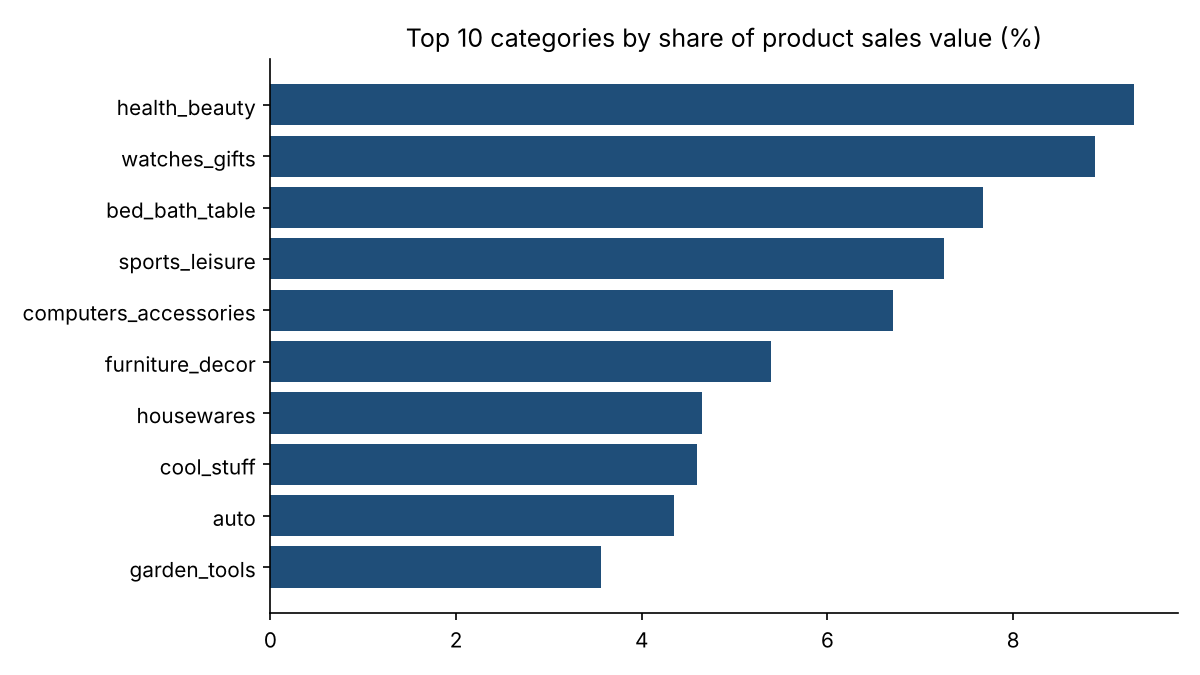
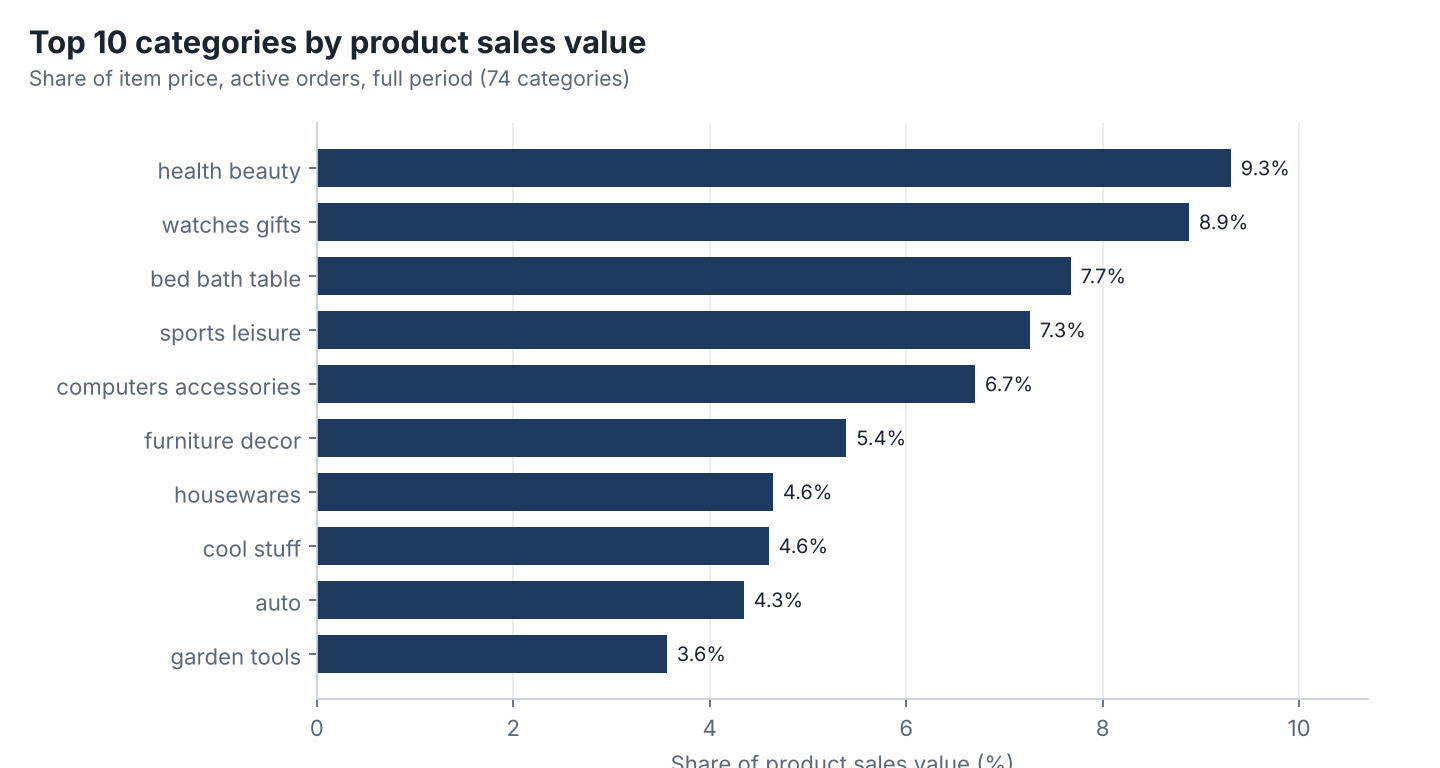
Restyle charts, add overview image, redesign README
- New src/analysis/charts.py: consistent style, direct labels, annotated peak, average line
- reports/charts/dashboard_overview.png (static Matplotlib summary, not Power BI)
- README: centered header, badges, hero image, results table, 2x3 chart grid, docs links

Claude-Session: https://claude.ai/code/session_014fBJ9he66Z22D9tL84DU2s

diff --git a/src/analysis/charts.py b/src/analysis/charts.py
@@ -1,0 +1,172 @@
+"""Chart rendering for the README and reports. One visual style, labelled directly.
+
+All charts are drawn from the query result DataFrames (no hard-coded numbers).
+"""
+from pathlib import Path
+
+NAVY, ORANGE, RED, GREY, GREEN, LIGHT = "#1f3a5f", "#e07b39", "#c0392b", "#8a94a6", "#2e8b6a", "#e8ecf2"
+INK, MUTED = "#1c2430", "#5b6677"
+
+
+def _style():
+    import matplotlib as mpl
+    mpl.use("Agg")
+    mpl.rcParams.update({
+        "font.family": ["Inter", "DejaVu Sans"], "font.size": 10, "text.color": INK,
+        "axes.edgecolor": "#c9d0db", "axes.labelcolor": MUTED, "xtick.color": MUTED, "ytick.color": MUTED,
+        "axes.spines.top": False, "axes.spines.right": False, "axes.grid": True, "grid.color": LIGHT,
+        "grid.linewidth": 0.8, "axes.axisbelow": True, "figure.facecolor": "white", "axes.facecolor": "white",
+    })
+
+
+def _title(fig, title, subtitle=None):
+    fig.text(0.02, 0.97, title, fontsize=14, fontweight="bold", va="top", ha="left", color=INK)
+    if subtitle:
+        fig.text(0.02, 0.915, subtitle, fontsize=9.5, va="top", ha="left", color=MUTED)
+
+
+def _save(fig, path):
+    fig.savefig(path, dpi=160, facecolor="white")
+    import matplotlib.pyplot as plt
+    plt.close(fig)
+
+
+def _monthly(m):
+    full = m[m["orders"] >= 500]          # edge months hold a handful of orders and would draw a false collapse
+    return full if len(full) else m
+
+
+def _monthly_panel(ax, m):
+    m = _monthly(m)
+    x = m["purchase_month"].astype(str).str[:7]
+    ax.fill_between(range(len(m)), m["orders"], color=NAVY, alpha=0.12)
+    ax.plot(range(len(m)), m["orders"], color=NAVY, lw=2.2, marker="o", ms=3.5)
+    step = max(len(m) // 8, 1)
+    ax.set_xticks(range(0, len(m), step)); ax.set_xticklabels(x.iloc[::step], rotation=0, fontsize=8)
+    ax.set_ylim(0, m["orders"].max() * 1.18)
+    peak = m["orders"].idxmax(); pi = list(m.index).index(peak)
+    ax.annotate(f"peak {int(m.loc[peak, 'orders']):,}\n{x.loc[peak]}", (pi, m.loc[peak, "orders"]), (pi - 2.2, m["orders"].max() * 1.02),
+                fontsize=8.5, color=INK, arrowprops=dict(arrowstyle="-", color=GREY), ha="center")
+    ax.set_ylabel("Orders per month")
+
+
+def _late_panel(ax, s, overall):
+    s = s.sort_values("late_rate")
+    colors = [RED if v > overall else NAVY for v in s["late_rate"]]
+    ax.barh(s["customer_state"], s["late_rate"] * 100, color=colors, height=0.72)
+    ax.axvline(overall * 100, color=INK, lw=1, ls="--")
+    ax.text(overall * 100 + 0.3, 0.2, f"all-state average {overall:.1%}", fontsize=8.5, color=INK, va="bottom")
+    ax.set_xlabel("Late-delivery rate (%)"); ax.grid(axis="y", visible=False)
+    ax.tick_params(axis="y", labelsize=8)
+
+
+def make_all(results: dict, out: Path) -> None:
+    _style()
+    import matplotlib.pyplot as plt
+    out.mkdir(parents=True, exist_ok=True)
+
+    # ---- 1 monthly orders
+    m = results["q01_monthly_trend"]
+    fig, ax = plt.subplots(figsize=(9, 4.2)); fig.subplots_adjust(top=0.80, bottom=0.12, left=0.08, right=0.97)
+    _monthly_panel(ax, m)
+    _title(fig, "Monthly orders", "Active orders (excl. canceled/unavailable); months with at least 500 orders")
+    _save(fig, out / "monthly_orders.png")
+
+    # ---- 2 category share
+    c = results["q02_category_contribution"].head(10).iloc[::-1]
+    fig, ax = plt.subplots(figsize=(9, 4.8)); fig.subplots_adjust(top=0.84, bottom=0.09, left=0.22, right=0.95)
+    ax.barh(c["category"].str.replace("_", " "), c["value_share"] * 100, color=NAVY, height=0.7)
+    for y, v in enumerate(c["value_share"] * 100):
+        ax.text(v + 0.1, y, f"{v:.1f}%", va="center", fontsize=9, color=INK)
+    ax.set_xlim(0, c["value_share"].max() * 100 * 1.15); ax.grid(axis="y", visible=False)
+    ax.set_xlabel("Share of product sales value (%)")
+    _title(fig, "Top 10 categories by product sales value", "Share of item price, active orders, full period (74 categories)")
+    _save(fig, out / "category_share.png")
+
+    # ---- 3 late rate by state
+    s = results["q04_delivery_performance"]
+    elig = s["eligible_orders"].sum()
+    overall = (s["late_rate"] * s["eligible_orders"]).sum() / elig if elig else 0.0
+    fig, ax = plt.subplots(figsize=(9, 6.6)); fig.subplots_adjust(top=0.88, bottom=0.08, left=0.07, right=0.97)
+    _late_panel(ax, s, overall)
+    _title(fig, "Late-delivery rate by customer state", "Delivered after the estimated date; states with at least 30 eligible orders. Red = above average")
+    _save(fig, out / "late_rate_by_state.png")
+
+    # ---- 4 review by delivery outcome
+    r = results["q05_reviews_vs_delay"].set_index("delivery_outcome")
+    fig, axes = plt.subplots(1, 2, figsize=(9, 4)); fig.subplots_adjust(top=0.78, bottom=0.12, left=0.07, right=0.97, wspace=0.3)
+    labels = [k.replace("_", " ") for k in r.index]; cols = [RED if k == "late" else NAVY for k in r.index]
+    for ax, col, ttl, fmt, lim in [(axes[0], "avg_review_score", "Average review score (1-5)", "{:.2f}", 5),
+                                    (axes[1], "low_score_rate", "Share scoring 1-2", "{:.1%}", 1)]:
+        ax.bar(labels, r[col], color=cols, width=0.55)
+        for i, v in enumerate(r[col]):
+            ax.text(i, v + lim * 0.02, fmt.format(v), ha="center", fontsize=11, fontweight="bold", color=INK)
+        if lim == 1:
+            from matplotlib.ticker import PercentFormatter
+            ax.yaxis.set_major_formatter(PercentFormatter(1.0, decimals=0))
+        ax.set_ylim(0, lim * 1.12); ax.set_title(ttl, fontsize=10, color=MUTED, loc="left"); ax.grid(axis="x", visible=False)
+    _title(fig, "Late deliveries have much lower review scores", "Association only (reviews are voluntary; late orders differ in other ways too)")
+    _save(fig, out / "review_by_delivery.png")
+
+    # ---- 5 order value bands
+    v = results["q09_order_value_distribution"]
+    fig, ax = plt.subplots(figsize=(9, 4.4)); fig.subplots_adjust(top=0.80, bottom=0.13, left=0.07, right=0.97)
+    x = range(len(v)); w = 0.38
+    b1 = ax.bar([i - w / 2 for i in x], v["order_share"] * 100, w, color=NAVY, label="Share of orders")
+    b2 = ax.bar([i + w / 2 for i in x], v["value_share"] * 100, w, color=ORANGE, label="Share of product sales value")
+    for bars in (b1, b2):
+        for b in bars:
+            ax.text(b.get_x() + b.get_width() / 2, b.get_height() + 0.6, f"{b.get_height():.0f}%", ha="center", fontsize=9)
+    ax.set_xticks(list(x)); ax.set_xticklabels(v["value_band"].str.split(": ").str[1]); ax.set_xlabel("Order value (product price)")
+    ax.set_ylabel("%"); ax.legend(frameon=False, loc="upper right"); ax.grid(axis="x", visible=False)
+    _title(fig, "Small orders are the volume; large orders are the value", "Active orders with at least one item")
+    _save(fig, out / "order_value_bands.png")
+
+    # ---- 6 payment mix
+    p = results["q12_payments_by_order_value_band"]
+    fig, ax = plt.subplots(figsize=(9, 4.6)); fig.subplots_adjust(top=0.80, bottom=0.2, left=0.07, right=0.97)
+    bottom = [0.0] * len(p)
+    for col, label, color in [("credit_card_share", "credit card", NAVY), ("boleto_share", "boleto", ORANGE),
+                              ("voucher_share", "voucher", GREY), ("debit_card_share", "debit card", GREEN)]:
+        vals = (p[col] * 100).tolist()
+        ax.bar(p["value_band"].str.split(": ").str[1], vals, bottom=bottom, label=label, color=color, width=0.62)
+        if col in ("credit_card_share", "boleto_share"):
+            for i, (b, val) in enumerate(zip(bottom, vals)):
+                ax.text(i, b + val / 2, f"{val:.0f}%", ha="center", va="center", color="white", fontsize=9, fontweight="bold")
+        bottom = [b + q for b, q in zip(bottom, vals)]
+    ax.set_ylim(0, 100); ax.set_ylabel("% of orders (main payment type)"); ax.set_xlabel("Order value (product price)")
+    ax.legend(frameon=False, ncol=4, loc="upper center", bbox_to_anchor=(0.5, -0.16)); ax.grid(axis="x", visible=False)
+    _title(fig, "Larger orders lean on credit card", "Main payment type per order-value band")
+    _save(fig, out / "payment_mix_by_band.png")
+
+    # ---- 7 overview "dashboard"
+    q1 = results["q01_monthly_trend"]; q6 = results["q06_repeat_customers"].iloc[0]
+    tot_orders = int(q1["orders"].sum()); tot_value = float(q1["product_sales_value"].sum())
+    late_n = float(r.loc["late", "orders_with_review"]) if "late" in r.index else 0
+    tiles = [("Active orders", f"{tot_orders:,}"), ("Product sales value", f"{tot_value/1e6:.1f}M"),
+             ("Late deliveries", f"{overall:.1%}"), ("Late-order avg review", f"{r.loc['late','avg_review_score']:.2f}" if "late" in r.index else "n/a"),
+             ("Repeat customers", f"{q6['repeat_rate']:.1%}")]
+    fig = plt.figure(figsize=(14, 9.2)); fig.patch.set_facecolor("#f4f6fa")
+    fig.text(0.03, 0.965, "Marketplace operations & customer experience", fontsize=19, fontweight="bold", va="top", color=INK)
+    fig.text(0.03, 0.925, "Olist Brazilian E-Commerce (public dataset), Sep 2016 - Oct 2018. Generated by the pipeline from real data; association only, not revenue or profit.",
+             fontsize=10, va="top", color=MUTED)
+    for i, (lab, val) in enumerate(tiles):
+        x0 = 0.03 + i * 0.1945
+        ax = fig.add_axes([x0, 0.80, 0.18, 0.095]); ax.set_xticks([]); ax.set_yticks([])
+        for sp in ax.spines.values(): sp.set_visible(False)
+        ax.set_facecolor("white"); ax.grid(False)
+        ax.text(0.06, 0.68, lab, fontsize=10, color=MUTED, transform=ax.transAxes)
+        ax.text(0.06, 0.18, val, fontsize=22, fontweight="bold", color=RED if "Late" in lab else NAVY, transform=ax.transAxes)
+    a1 = fig.add_axes([0.05, 0.50, 0.42, 0.24]); a1.set_facecolor("white"); _monthly_panel(a1, q1)
+    a1.set_title("Monthly orders", loc="left", fontsize=11, fontweight="bold")
+    a2 = fig.add_axes([0.58, 0.07, 0.38, 0.67]); a2.set_facecolor("white"); _late_panel(a2, s, overall)
+    a2.set_title("Late-delivery rate by state (%)", loc="left", fontsize=11, fontweight="bold")
+    a3 = fig.add_axes([0.05, 0.07, 0.19, 0.31]); a3.set_facecolor("white")
+    a3.bar(labels, r["avg_review_score"], color=cols, width=0.55)
+    for i, val in enumerate(r["avg_review_score"]): a3.text(i, val + 0.1, f"{val:.2f}", ha="center", fontweight="bold")
+    a3.set_ylim(0, 5.5); a3.set_title("Avg review score", loc="left", fontsize=11, fontweight="bold"); a3.grid(axis="x", visible=False)
+    a4 = fig.add_axes([0.30, 0.07, 0.19, 0.31]); a4.set_facecolor("white")
+    a4.bar(v["value_band"].str.split(": ").str[1], v["value_share"] * 100, color=ORANGE, width=0.6)
+    a4.set_title("Share of product sales value\nby order-value band (%)", loc="left", fontsize=11, fontweight="bold")
+    a4.tick_params(axis="x", labelsize=8, rotation=30); a4.grid(axis="x", visible=False)
+    _save(fig, out / "dashboard_overview.png")

diff --git a/src/analysis/run_analysis.py b/src/analysis/run_analysis.py
@@ -19,63 +19,5 @@ def run_queries(con, out_dir: Path) -> dict:
 
 
 def make_charts(results: dict, chart_dir: Path) -> None:
-    import matplotlib
-    matplotlib.use("Agg")
-    import matplotlib.pyplot as plt
-
-    chart_dir.mkdir(parents=True, exist_ok=True)
-    m = results["q01_monthly_trend"]
-    # Edge months of the dataset hold only a handful of orders (partial/ramp-up periods) and would
-    # draw a false collapse; chart only months with a meaningful volume.
-    full = m[m["orders"] >= 500]
-    m = full if len(full) else m
-    fig, ax = plt.subplots(figsize=(9, 4))
-    ax.plot(m["purchase_month"], m["orders"], color="#1f4e79", marker="o", markersize=3)
-    ax.set_title("Monthly orders (excl. canceled/unavailable; months with >= 500 orders)")
-    ax.set_ylabel("Orders"); ax.spines[["top", "right"]].set_visible(False)
-    fig.tight_layout(); fig.savefig(chart_dir / "monthly_orders.png", dpi=150); plt.close(fig)
-
-    c = results["q02_category_contribution"].head(10).iloc[::-1]
-    fig, ax = plt.subplots(figsize=(8, 4.5))
-    ax.barh(c["category"], c["value_share"] * 100, color="#1f4e79")
-    ax.set_title("Top 10 categories by share of product sales value (%)")
-    ax.spines[["top", "right"]].set_visible(False)
-    fig.tight_layout(); fig.savefig(chart_dir / "category_share.png", dpi=150); plt.close(fig)
-
-    s = results["q04_delivery_performance"].sort_values("late_rate")
-    fig, ax = plt.subplots(figsize=(8, 6))
-    ax.barh(s["customer_state"], s["late_rate"] * 100, color="#1f4e79")
-    ax.set_title("Late-delivery rate by customer state (%), states with >= 30 eligible orders")
-    ax.spines[["top", "right"]].set_visible(False)
-    fig.tight_layout(); fig.savefig(chart_dir / "late_rate_by_state.png", dpi=150); plt.close(fig)
-
-    r = results["q05_reviews_vs_delay"]
-    fig, ax = plt.subplots(figsize=(5, 4))
-    ax.bar(r["delivery_outcome"], r["avg_review_score"], color="#1f4e79")
-    ax.set_ylim(0, 5); ax.set_ylabel("Average review score")
-    ax.set_title("Review score by delivery outcome")
-    ax.spines[["top", "right"]].set_visible(False)
-    fig.tight_layout(); fig.savefig(chart_dir / "review_by_delivery.png", dpi=150); plt.close(fig)
-
-    v = results["q09_order_value_distribution"]
-    x = range(len(v))
-    fig, ax = plt.subplots(figsize=(8, 4))
-    ax.bar([i - 0.2 for i in x], v["order_share"] * 100, width=0.4, color="#1f4e79", label="Share of orders")
-    ax.bar([i + 0.2 for i in x], v["value_share"] * 100, width=0.4, color="#e07b39", label="Share of product sales value")
-    ax.set_xticks(list(x)); ax.set_xticklabels(v["value_band"]); ax.set_ylabel("%")
-    ax.set_title("Order-value bands: share of orders vs share of value")
-    ax.legend(frameon=False); ax.spines[["top", "right"]].set_visible(False)
-    fig.tight_layout(); fig.savefig(chart_dir / "order_value_bands.png", dpi=150); plt.close(fig)
-
-    p = results["q12_payments_by_order_value_band"]
-    fig, ax = plt.subplots(figsize=(8, 4))
-    bottom = [0.0] * len(p)
-    for col, label, color in [("credit_card_share", "credit card", "#1f4e79"), ("boleto_share", "boleto", "#e07b39"),
-                              ("voucher_share", "voucher", "#7f7f7f"), ("debit_card_share", "debit card", "#59a14f")]:
-        vals = (p[col] * 100).tolist()
-        ax.bar(p["value_band"], vals, bottom=bottom, label=label, color=color)
-        bottom = [b + v_ for b, v_ in zip(bottom, vals)]
-    ax.set_ylabel("% of orders (main payment type)")
-    ax.set_title("Main payment type by order-value band")
-    ax.legend(frameon=False, ncol=4, loc="upper center", bbox_to_anchor=(0.5, -0.12)); ax.spines[["top", "right"]].set_visible(False)
-    fig.tight_layout(); fig.savefig(chart_dir / "payment_mix_by_band.png", dpi=150); plt.close(fig)
+    from src.analysis.charts import make_all
+    make_all(results, chart_dir)

diff --git a/README.md b/README.md
@@ -1,9 +1,45 @@
-# Marketplace Operations & Customer Experience Intelligence
+<h1 align="center">Marketplace Operations &amp; Customer Experience Analytics</h1>
+<p align="center"><em>An end-to-end analytics case study on ~100k real e-commerce orders: SQL (DuckDB) + Python pipeline, data-quality gates, 13 business queries, findings and recommendations.</em></p>
 
-*An end-to-end data analytics case study: from a (simulated) business request to a tested SQL/Python pipeline.*
+<p align="center">
+  <img alt="Python" src="https://img.shields.io/badge/python-3.12%2B-1f3a5f">
+  <img alt="DuckDB" src="https://img.shields.io/badge/SQL-DuckDB-e07b39">
+  <img alt="Tests" src="https://img.shields.io/badge/tests-19%20passing-2e8b6a">
+  <img alt="Data quality" src="https://img.shields.io/badge/quality%20checks-13%2F13%20pass-2e8b6a">
+</p>
 
-## Project status — read first
+<p align="center"><img src="reports/charts/dashboard_overview.png" alt="Overview of key results from the real Olist data" width="100%"></p>
+<p align="center"><sub>Overview image generated by the pipeline from the real data (<code>python -m src.pipeline</code>). It is a static Matplotlib summary, <b>not</b> a Power BI dashboard.</sub></p>
 
+**Jump to:** [Results](#key-results) · [Status](#project-status) · [Workflow](#workflow) · [Run it](#run-it) · [Docs](#documentation)
+
+## Key results
+Descriptive associations from the real data, not causal claims; "product sales value" is item price, not revenue or profit. Full detail, denominators and caveats: [`docs/findings_and_recommendations.md`](docs/findings_and_recommendations.md).
+
+| | Finding | Source |
+|---|---|---|
+| Growth | Jan-Aug 2018 vs Jan-Aug 2017: orders **+137%** (22,562 → 53,531); flat within 2018 | `q01` |
+| Delivery | **8.1%** of 96,470 eligible orders late; **AL 23.9%** vs **SP 5.9%** | `q04` |
+| Reviews vs delay | Late orders average **2.57**, on-time **4.29** (association only) | `q05` |
+| Repeat customers | **3.0%** of 94,990 customers ordered more than once in the window | `q06` |
+| Order value | Orders ≥ 200 are **15%** of orders but **50%** of product sales value | `q09` |
+
+<table>
+<tr>
+<td width="50%"><img src="reports/charts/monthly_orders.png" alt="Monthly orders"></td>
+<td width="50%"><img src="reports/charts/review_by_delivery.png" alt="Review score by delivery outcome"></td>
+</tr>
+<tr>
+<td width="50%"><img src="reports/charts/late_rate_by_state.png" alt="Late-delivery rate by state"></td>
+<td width="50%"><img src="reports/charts/category_share.png" alt="Top categories by product sales value"></td>
+</tr>
+<tr>
+<td width="50%"><img src="reports/charts/order_value_bands.png" alt="Order-value bands"></td>
+<td width="50%"><img src="reports/charts/payment_mix_by_band.png" alt="Payment mix by order-value band"></td>
+</tr>
+</table>
+
+## Project status
 | Component | Status |
 |---|---|
 | SQL models, KPI definitions, quality checks, Python pipeline | Built; 19 tests pass on a **synthetic fixture** (`tests/fixtures`) |
@@ -52,26 +88,13 @@ make pipeline    # needs real CSVs in data/raw/
 ```
 Outputs: `reports/q*.csv`, `reports/data_quality_results.csv`, `reports/charts/`, `data/processed/*.csv` (for Power BI). If data is missing, the pipeline exits with a clear error naming the missing files.
 
+## Documentation
+[Business request](docs/business_request.md) · [Charter](docs/project_charter.md) · [Data quality report](docs/data_quality_report.md) · [Findings](docs/findings_and_recommendations.md) · [KPI dictionary](docs/kpi_dictionary.md) · [Data model](docs/data_model.md) · [Methodology](docs/methodology.md) · [Traceability](docs/requirements_traceability.md) · [Reproducibility](docs/reproducibility.md)
+
 ## Structure
 `sql/` numbered layers (staging → transformations → marts → analysis → data quality) · `src/` pipeline, validation, QA, analysis · `tests/` pytest + synthetic fixture generator · `notebooks/` EDA · `reports/` query outputs and charts · `docs/` · `powerbi/` model spec and DAX · `.github/workflows/tests.yml` (CI defined; synthetic fixture only).
 
 ## Skills demonstrated
 Requirements and KPI definition, grain-aware SQL (DuckDB), pandas/Python pipeline design, data-quality engineering and reconciliation testing, dimensional modelling, DAX design, documentation of limitations.
 
-## Selected results (real data)
-Full findings, populations, denominators and caveats: [`docs/findings_and_recommendations.md`](docs/findings_and_recommendations.md). These are descriptive associations, not causal claims, and "product sales value" is item price, not revenue or profit.
 
-| Finding | Result | Source |
-|---|---|---|
-| Growth | Jan-Aug 2018 vs Jan-Aug 2017: orders +137% (22,562 → 53,531); flat within 2018 | `q01` |
-| Delivery | 8.1% of 96,470 eligible orders late; AL 23.9% vs SP 5.9% | `q04` |
-| Reviews vs delay | Late orders average 2.57, on-time 4.29 (association only) | `q05` |
-| Repeat customers | 3.0% of 94,990 customers ordered more than once in the window | `q06` |
-| Order value | Orders ≥ 200 are 15% of orders but 50% of product sales value | `q09` |
-
-![Monthly orders](reports/charts/monthly_orders.png)
-![Late-delivery rate by state](reports/charts/late_rate_by_state.png)
-![Review score by delivery outcome](reports/charts/review_by_delivery.png)
-![Order-value bands](reports/charts/order_value_bands.png)
-![Payment mix by order-value band](reports/charts/payment_mix_by_band.png)
-![Category share](reports/charts/category_share.png)
